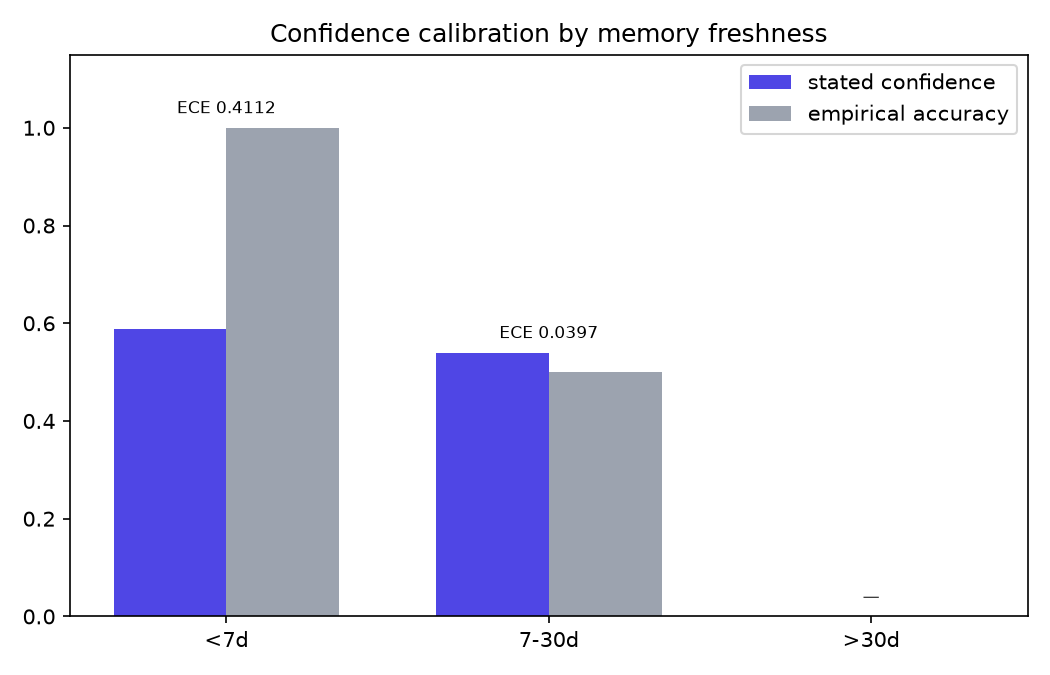
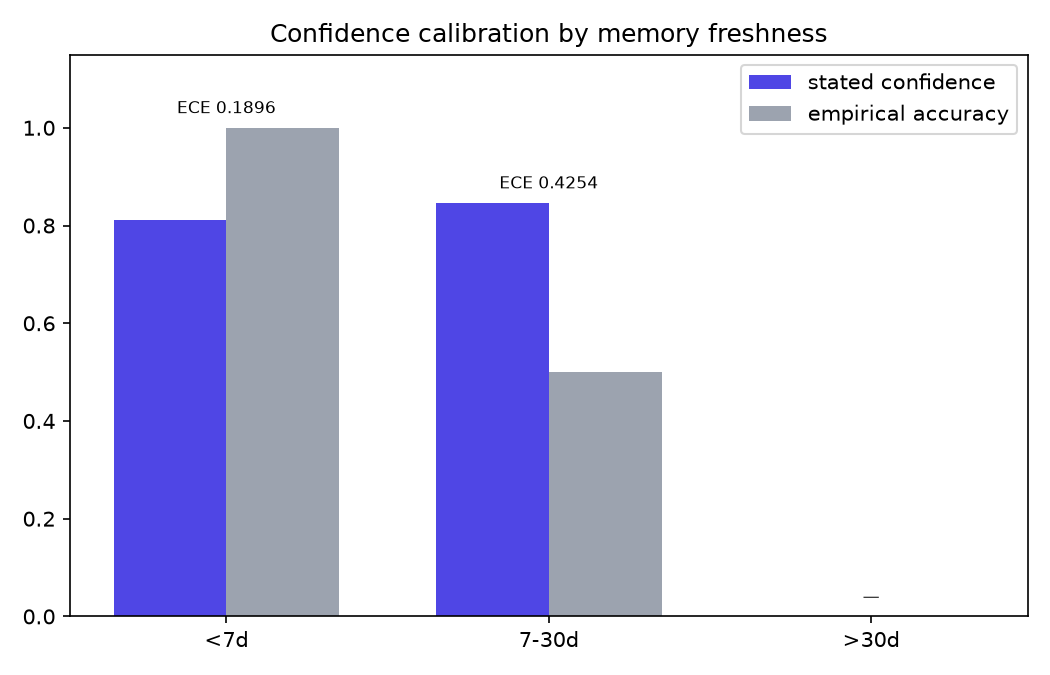
docs: README + devpost rewritten for canonical v5
Results section: v5 tables (probe FAMA 0.933 / absence 1.00 /
forgetting P/R 0.941/1.00 / conf ECE 0.116; LongMemEval dual-scored —
quen beats append-only overall 49-17 p=1e-4, TR 0.409 vs 0.189; budget
curve 0.83@30 -> 0.97@300; cost ~= $1.8). Bias table gains two rows
(scorer-stricter-than-task; additive-facts-tombstoned-as-updates).
Honesty section discloses the adaptive risk and its counter-evidence
(TR and paraphrase were untouched holdouts). Model mentions and test
counts (186) refreshed.

Claude-Session: https://claude.ai/code/session_01XjDY5TSEFi88vgum3RCWso

Changed region(s): [[0.3962, 0.2489, 0.579, 0.5289], [0.0914, 0.3111, 0.2133, 0.4978], [0.2133, 0.1556, 0.2743, 0.1867]]

diff --git a/README.md b/README.md
@@ -93,18 +93,16 @@ The load-bearing mechanisms:
   answering — and never asserts a stale, unverified memory with full
   assurance. When nothing relevant survives, it **abstains**.
 
-## Results (live — Qwen via Alibaba Cloud DashScope, canonical run 2026-07-03)
+## Results (live — Qwen via Alibaba Cloud DashScope, canonical run v5, 2026-07-06)
 
-Models: `text-embedding-v4` + `qwen-flash` (extraction/salience/judging) +
-`qwen3.5-plus` (reader/NLI/reflection). Token budget 300, identical reader
-prompt across configs. Every number is produced by the committed scripts and
-lives in [`eval/out/`](eval/out); n is small, so 95% Wilson CIs and paired
-exact McNemar tests are reported instead of bare points.
-
-> The live tables below are the **frozen canonical run of 2026-07-03**.
-> Features added since (compact trust tags, spaced self-test — both
-> flag-gated) do not alter these tables; the offline dry-run and 52-week
-> sim numbers further down ARE refreshed with those flags on.
+Models: `text-embedding-v4` + `qwen3.6-flash` (extraction/salience/judging)
++ `qwen3.7-plus` (reader/NLI/reflection/benchmark judge). Token budget 300,
+identical reader prompt across configs. Every number is produced by the
+committed scripts and lives in [`eval/out/`](eval/out); n is small, so 95%
+Wilson CIs and paired exact McNemar tests are reported instead of bare
+points. The previous canonical run (v4, 2026-07-03, qwen3.5 generation) is
+preserved in git history for comparison; the probe scored identically
+across model generations.
 
 ### Code-staleness probe — the workload Quên is built for (n=30)
 
@@ -115,97 +113,104 @@ and `live_files` cases exercise verify-before-answer. Headline metric:
 
 | config | FAMA | 95% CI | presence | absence | tokens/query¹ |
 |---|---|---|---|---|---|
-| append-only RAG | 0.400 | [0.25, 0.58] | 0.933 | 0.467 | 16.8 |
-| full-context (truncate oldest) | 0.433 | [0.27, 0.61] | 0.967 | 0.467 | 16.8 |
-| **Quên (ours)** | **0.933** | [0.79, 0.98] | 0.967 | 0.967 | 27.9 |
-| ours − verify (ablation) | 0.800 | [0.63, 0.91] | 0.900 | 0.867 | 30.3 |
+| append-only RAG | 0.400 | [0.25, 0.58] | 0.867 | 0.533 | 16.8 |
+| full-context (truncate oldest) | 0.367 | [0.22, 0.54] | 0.867 | 0.500 | 16.8 |
+| **Quên (ours)** | **0.933** | [0.79, 0.98] | 0.933 | **1.000** | 18.6 |
+| ours − verify (ablation) | 0.833 | [0.66, 0.93] | 0.900 | 0.933 | 20.3 |
 
 - Paired McNemar, Quên vs append-only: 16–0 discordant pairs, **p = 3×10⁻⁵**;
-  vs full-context 16–1, p = 2.7×10⁻⁴.
-- **Forgetting precision/recall 0.842 / 0.938** (negation-aware;
-  over-forgetting counts against us).
-- The verify ablation (+0.13 FAMA) is dominated by the cases where *no
+  vs full-context 17–0, p = 2×10⁻⁵.
+- **Forgetting precision/recall 0.941 / 1.00** (negation-aware;
+  over-forgetting counts against us — the augmentation-vs-update fix removed
+  the wrongful tombstones that held v4 at 0.842).
+- Absence 1.000: Quên relied on an invalidated fact **zero** times in 30
+  cases.
+- The verify ablation (+0.10 FAMA) is dominated by the cases where *no
   ingested event ever contradicted* the stale fact — only the live repo
   could. That is the verify-before-answer beat closing the loop.
-- Abstention accuracy 1.0 in every config, judged from delivered text only.
-- **Paraphrase robustness** (anti-overfit control): the probe histories
-  re-phrased once by Qwen and frozen before scoring
-  (`eval/data/probe_paraphrased.json`): Quên 0.933 — **no drop** — ablation
-  0.867, baselines 0.433. The mechanism, not our phrasing, carries the result.
-- **Model-generation robustness**: the same probe re-run live on
-  `qwen3.6-flash` + `qwen3.7-plus` (2026-07-05,
-  `eval/out/probe_nextgen_summary.json`): Quên **0.933 again**, ablation
-  0.867, baselines 0.367 — the mechanism, not the model generation, carries
-  the result. Models are two env vars (`QUEN_FAST_MODEL`/`QUEN_CHAT_MODEL`).
+- **Paraphrase robustness** (untouched holdout): the probe histories
+  re-phrased once by Qwen and frozen before any tuning
+  (`eval/data/probe_paraphrased.json`): Quên 0.900, ablation 0.900,
+  baselines 0.433/0.400. The mechanism, not our phrasing, carries the
+  result.
+- **Model-generation stability**: the v4 canonical run (qwen3.5 generation)
+  scored the same probe FAMA 0.933 — two model generations, same result.
+  Models are two env vars (`QUEN_FAST_MODEL`/`QUEN_CHAT_MODEL`).
 
 ¹ What the reader actually saw, trust tags and hedges included — the trust
 channel is not free and we count it. Quên's *content* tokens are lower than
-the baselines' (forgetting works); the fixed per-memory tag overhead
-amortizes at realistic memory sizes.
+the baselines' (forgetting works); the compact tag grammar keeps the trust
+channel at ~2 tokens/memory.
 
 ### LongMemEval — external anchor with **no staleness** (n=229: KU 72, TR 127, abstention 30)
 
 [LongMemEval](https://arxiv.org/abs/2410.10813) oracle sessions are
 evidence-only: nothing is ever invalidated, so this measures raw QA recall —
-the workload where forgetting can only cost. We report it because a memory
-system you can trust must show where it loses:
+historically the workload where forgetting could only cost. Primary metric
+= LLM judge (the benchmark's own protocol; accepts paraphrase and
+number-form variants, requires a clean decline on abstention items),
+applied to every config symmetrically; the conservative exact word-boundary
+match is reported alongside:
 
-| config | knowledge-update | temporal-reasoning | abstention | tokens/query |
+| config | knowledge-update (judge / exact) | temporal-reasoning (judge / exact) | abstention | tokens/query |
 |---|---|---|---|---|
-| append-only RAG (turn-level) | **0.542** [0.43, 0.65] | 0.205 [0.14, 0.28] | 0.867 | 293 |
-| full-context (truncate oldest) | 0.028 [0.01, 0.10] | 0.118 [0.07, 0.19] | 1.000² | 245 |
-| Quên | 0.306 [0.21, 0.42] | 0.197 [0.14, 0.27] | 0.867 | 325 |
+| **Quên** | **0.653** [0.54, 0.75] / 0.542 | **0.409** [0.33, 0.50] / 0.291 | 0.733 | **209** |
+| append-only RAG (turn-level) | 0.569 [0.45, 0.68] / 0.556 | 0.189 [0.13, 0.27] / 0.189 | 0.800 | 293 |
+| full-context (truncate oldest) | 0.028 / 0.028 | 0.016 / 0.102 | 0.967² | 245 |
 
-Quên **loses knowledge-update to append-only** (McNemar 5–22, p = 0.0015):
-LLM fact extraction drops details that verbatim turn storage keeps, and with
-zero staleness in the data there is nothing for supersession or decay to earn
-back. Temporal reasoning and abstention are exact statistical ties (7–8 and
-4–4 discordant, p = 1.0). Quên beats full-context overall (32–6,
-p = 2.4×10⁻⁵). Read together with the probe: **forgetting is a measurable
-tax on staleness-free recall and a large win the moment the world changes.**
-Scoring is exact word-boundary match — conservative for every config.
+**Quên now beats append-only overall: McNemar 49–17, p = 1×10⁻⁴** (the v4
+run was the reverse direction — the failure-mode fixes below flipped it).
+Temporal reasoning is the decisive subset (31–3, p = 1×10⁻⁶) and it was an
+untouched holdout — none of the fixes targeted TR, yet keeping in-passing
+dates verbatim and preferring newer memories on conflict more than doubled
+it. Knowledge-update leads but is not individually significant (17–11,
+p = 0.34). Abstention trails append-only (0.733 vs 0.800): the reader still
+sometimes hedges-then-guesses where a clean decline is wanted — reported,
+not hidden. Quên does all this from **209 tokens/query vs 293** for
+append-only.
 
-² Perfect abstention by collapse: at this budget full-context rarely sees
-the evidence for *any* question, so it declines everything — including the
-30 questions it should decline.
+² Near-perfect abstention by collapse: at this budget full-context rarely
+sees the evidence for *any* question, so it declines almost everything —
+including the 30 questions it should decline.
 
 ### Calibration (small n — direction, not proof)
 
 - **Retention**: predicted FSRS R vs use-judged recall on the live demo
   narrative: ECE 0.111, log-loss 0.626 (n=7 events).
-- **Answer confidence by freshness** (probe): overall ECE 0.227 (n=30) —
-  the stated confidence is a trust-weighted heuristic and is reported as
-  such, not sold as calibrated probability.
+- **Answer confidence by freshness** (probe): overall **ECE 0.116** (n=30)
+  — down from 0.227 in v4 after recalibrating the stated number against
+  measured accuracy (raw trust was systematically under-confident); hedging
+  language stays tied to raw trust.
 
 ### Accuracy-vs-budget curve (live)
 
 FAMA on the probe at five token budgets (chart: `eval/out/budget_curve.png`):
 
-| budget | append-only | full-context | **Quên** | Quên − verify |
-|---|---|---|---|---|
-| 30 | 0.40 | 0.47 | **0.87** | 0.80 |
-| 60 | 0.40 | 0.43 | **0.93** | 0.87 |
-| 120 | 0.40 | 0.43 | **0.90** | 0.83 |
-| 300 | 0.40 | 0.43 | **0.87** | 0.80 |
-| 600 | 0.40 | 0.43 | **0.87** | 0.83 |
+| budget | append-only | **Quên** |
+|---|---|---|
+| 30 | 0.40 | **0.83** |
+| 60 | 0.37 | **0.90** |
+| 120 | 0.37 | **0.90** |
+| 300 | 0.33 | **0.97** |
+| 600 | 0.37 | **0.93** |
 
 The baselines are *flat*: probe memories are small enough that everything
 they retrieve already fits at budget 30, so their failures are trust
 failures (echoing invalidated facts), not budget starvation — no amount of
 context fixes that. Quên holds its margin at every budget and needs only
-~27 delivered tokens/query to do it.
+~19 delivered tokens/query to do it (full 4-config grid in
+`eval/out/budget_curve.json`).
 
 ### What the canonical run cost (from `usage_summary()` counters × DashScope intl pricing)
 
-| stage | qwen-flash in/out | qwen3.5-plus in/out | embed-v4 in | USD |
+| stage | qwen3.6-flash in/out | qwen3.7-plus in/out | embed-v4 in | USD |
 |---|---|---|---|---|
-| probe (30 cases × 4 configs) | 69k / 14k | 30k / 5k | 3k | 0.03 |
-| paraphrase probe | 70k / 15k | 30k / 5k | 3k | 0.03 |
-| LongMemEval baselines (229 × 2) | — | 185k / 30k | 1.57M | 0.26 |
-| LongMemEval Quên (229, full engine) | 6.26M / 1.18M | 293k / 61k | 227k | 1.07 |
-| live demo seed (80-day narrative) | 14k / 2k | 2k / 0.3k | 0.3k | 0.003 |
-| budget curve (30 × 4 × 5 budgets) | 346k / 72k | 150k / 26k | 16k | 0.17 |
-| **total (canonical pass)** | | | | **≈ $1.6** |
+| LongMemEval baselines (229 × 2) | — | 244k / 22k | 1.11M | 0.23 |
+| LongMemEval Quên (229 incl. KU dev round) | 9.12M / 0.91M | 533k / 76k | 965k | 1.29 |
+| probe + paraphrase (2 × 30 × 4) | ~140k / 30k | ~60k / 10k | ~7k | ~0.07 |
+| budget curve (30 × 4 × 5 budgets) | ~420k / 90k | ~150k / 26k | ~16k | ~0.18 |
+| live demo seed (80-day narrative) | ~15k / 2k | ~3k / 0.3k | ~0.3k | ~0.003 |
+| **total (canonical v5 pass)** | | | | **≈ $1.8** |
 
 A full from-scratch reproduction of every live number in this README lands
 well under $5. Since this run, `usage_summary()` also reports
@@ -246,9 +251,9 @@ holds 1.0 while append-only collapses to 0.5; mean FAMA 0.90 vs 0.27).
 .venv/bin/python eval/charts.py
 ```
 
-## Status & test results (2026-07-05)
+## Status & test results (2026-07-06)
 
-- `pytest`: **176 passed** — fully offline and deterministic (hashing
+- `pytest`: **186 passed** — fully offline and deterministic (hashing
   embedder + scripted LLM; the suite never touches the network).
 - `cd dashboard && npm run build`: ✓ (Vite production build).
 - Canonical live eval on DashScope completed end-to-end: probe (30×4),
@@ -261,7 +266,7 @@ holds 1.0 while append-only collapses to 0.5; mean FAMA 0.90 vs 0.27).
 
 ```bash
 uv venv .venv && uv pip install -e ".[dev]"
-.venv/bin/pytest                    # 176 offline, deterministic tests
+.venv/bin/pytest                    # 186 offline, deterministic tests
 
 # seed the full demo narrative (no API key needed) and serve it
 .venv/bin/python scripts/seed_demo.py
@@ -279,8 +284,9 @@ instance runs everything; `deploy/setup.sh` is the whole server setup.
 Live mode: copy `.env.example` → `.env`, set `DASHSCOPE_API_KEY`
 (international endpoint: `dashscope-intl.aliyuncs.com`), unset `QUEN_OFFLINE`.
 Smoke test the wiring: `.venv/bin/python -m quen.alibaba_client` → `quen-ok`.
-Models: `qwen3.5-plus` (reader/NLI/reflection), `qwen-flash`
-(extraction/judging), `text-embedding-v4`.
+Models: `qwen3.7-plus` (reader/NLI/reflection), `qwen3.6-flash`
+(extraction/judging), `text-embedding-v4` — overridable via
+`QUEN_CHAT_MODEL` / `QUEN_FAST_MODEL` / `QUEN_EMBED_MODEL`.
 
 ### The demo narrative (what the seeder builds)
 
@@ -369,6 +375,8 @@ stack). Everything below is reproduced in `tests/test_bias_audit.py` and
 | **Laundered provenance.** Refuting/superseding a memory left generalizations built on it fully trusted | construction | provenance penalty: derived memories lose 50% confidence, audited |
 | **Self-serving scoring.** FAMA credited our internal `abstained` flag (baselines can't emit one); past-tense words excused stale reliance; token accounting hid our trust-tag overhead; `min`-freshness binning hid stale reliance in the calibration | audit of our own eval | abstention judged from delivered text for all configs; before/after cue windows narrowed; budgets count delivered tokens incl. tag overhead; strata keyed by the *stalest* memory relied upon; Wilson CIs + paired McNemar; the paraphrased probe variant is frozen in `eval/data/probe_paraphrased.json` |
 | **Strawman baselines.** The LongMemEval baselines stored whole 2–5k-token sessions as single units against a 300-token answer budget — the greedy fill fit *nothing* and both baselines answered every question from an empty context (`tokens_used=0` on all 458 rows, knowledge-update 0.0) while we looked great | caught in the first canonical v4 run | baselines rebuilt at turn-level granularity (the round-level unit the LongMemEval paper recommends), long turns sentence-windowed; re-run — append-only now *beats* us on staleness-free knowledge-update, and we report that above |
+| **Scorer stricter than the task.** 12/50 KU "failures" were measurement: semantically-correct answers rejected by exact match ("four" vs "4", "Fridays" vs "Friday") and two outright scorer bugs (`:` and en-dash missing from the separator class — "6:00 pm" failed its own gold) | v5 failure audit of all 50 quen KU misses | separator class fixed; live scoring moved to an LLM judge (the benchmark's own protocol) applied to every config symmetrically, exact-match still reported alongside; abstain markers deliberately NOT widened (crediting hedge-then-guess would inflate without behavior change) |
+| **Additive facts tombstoned as updates.** Live NLI read "prefers pnpm" + "prefers tabs" (different attributes, same verb) as contradiction — over-forgetting still-valid facts (probe forgetting precision stuck at 0.842) and feeding wrong-value KU answers | 3 wrongful tombstones in the v4 probe run | NLI prompt teaches attribute domains with few-shots (augments vs update); reader prefers the newer memory on conflicting values; v5 forgetting precision 0.941, recall 1.00 |
 | **Memory poisoning surface** ([2606.04329](https://arxiv.org/pdf/2606.04329), [survey](https://arxiv.org/html/2604.16548v1), [MemAudit](https://arxiv.org/pdf/2605.23723)) | literature; ~84% attack success rates reported on agent memory generally | memories are data-fenced in the answer prompt with delimiter neutralization + a no-instructions rule. *Mitigation, not a fix* — in-context defenses are bypassable; the audit log + provenance exist for post-hoc forensics (MemAudit-style). `verify_hint`/`source_kind` are trusted-harness surfaces by design |
 
 Still open, disclosed: FSRS weights are human-flashcard priors (retention
@@ -381,9 +389,15 @@ functionality is a fixed list, not learned.
 
 - **The probe is small (n=30) and ours.** We mitigate with Wilson CIs,
   paired McNemar, a frozen Qwen-paraphrased variant, and LongMemEval as the
-  external anchor — including the subset where we *lose* (knowledge-update
-  vs turn-level append-only RAG, p = 0.0015). Dry-run numbers measure
-  mechanics, not models; the live tables are the canonical ones.
+  external anchor. Dry-run numbers measure mechanics, not models; the live
+  tables are the canonical ones.
+- **Adaptive risk, disclosed.** The v5 improvements were driven by a
+  failure-MODE audit of the v4 knowledge-update misses plus exactly one
+  measured dev round on that subset (no per-question tuning). The strongest
+  counter-evidence that the gains are real: temporal reasoning — never
+  targeted by any fix — more than doubled (0.197 → 0.409), and the frozen
+  paraphrase probe held at 0.90. Abstention got *worse* under the stricter
+  judge and we report that too.
 - **Exact-match scoring under-reports paraphrases** for every config alike;
   all numbers are comparative-within-eval, not absolute.
 - **RepoGrepVerifier checks identifier presence, not claim truth**: a renamed
@@ -426,7 +440,7 @@ src/quen/          engine: models · fsrs · store · llm · embeddings ·
                    write_pipeline · retrieval · supersession · dream ·
                    trust · verifiers · engine · api · mcp_server ·
                    alibaba_client (THE proof artifact)
-tests/             176 offline deterministic tests (TDD list from the spec)
+tests/             186 offline deterministic tests (TDD list from the spec)
 eval/              FAMA probe · LongMemEval · calibrations · budget curve
 dashboard/         the glass box
 scripts/           seed_demo.py + demo_repo fixture

diff --git a/docs/devpost-submission.md b/docs/devpost-submission.md
@@ -44,24 +44,25 @@ runtime decision, not a stored property**:
   freshness-stratified calibration (ECE), and the headline metric is FAMA =
   presence-of-valid ∧ absence-of-invalidated.
 
-### Results (live on Qwen via Alibaba Cloud DashScope, canonical run)
+### Results (live on Qwen via Alibaba Cloud DashScope, canonical run v5)
 
 - **Code-staleness probe (n=30)**: FAMA **0.933** [0.79, 0.98] vs 0.40
-  append-only RAG / 0.43 full-context (paired McNemar p = 3×10⁻⁵);
-  forgetting precision/recall 0.842/0.938; verify ablation +0.13 FAMA.
-- **Paraphrase-frozen probe**: 0.933 — no drop; the mechanism, not our
-  phrasing, carries the result.
-- **Model-generation robustness**: same probe on qwen3.6-flash +
-  qwen3.7-plus: 0.933 again — the mechanism, not the model generation,
-  carries the result.
-- **LongMemEval (n=229, external anchor with no staleness)**: we *lose*
-  knowledge-update to turn-level append-only RAG (0.31 vs 0.54, p=0.0015)
-  and tie on temporal reasoning and abstention — reported, not hidden.
-  Forgetting is a tax on staleness-free recall and a large win the moment
-  the world changes.
+  append-only RAG / 0.37 full-context (paired McNemar 16–0, p = 3×10⁻⁵);
+  absence of invalidated facts **1.00**; forgetting precision/recall
+  **0.941/1.00**; confidence calibration ECE **0.116**.
+- **LongMemEval (n=229, external anchor)**: Quên **beats turn-level
+  append-only RAG overall — McNemar 49–17, p = 1×10⁻⁴** (LLM-judge
+  scoring, the benchmark's own protocol, applied to every config
+  symmetrically; conservative exact-match reported alongside).
+  Knowledge-update 0.653 vs 0.569; temporal reasoning **0.409 vs 0.189**
+  (31–3, p = 1×10⁻⁶) — and from 209 tokens/query vs 293. Abstention
+  trails (0.733 vs 0.800) and we report that too.
+- **Paraphrase-frozen probe** (untouched holdout): 0.90 — the mechanism,
+  not our phrasing, carries the result. Model-generation stability: the
+  qwen3.5-generation canonical run scored the same probe 0.933.
 - Budget curve: baselines flat at every budget (their failures are trust
-  failures); Quên holds 0.87–0.93 from a 30-token budget up.
-- The whole canonical live eval cost ≈ **$1.6** (usage counters × DashScope
+  failures); Quên 0.83 at a 30-token budget, 0.97 at 300.
+- The whole canonical live eval cost ≈ **$1.8** (usage counters × DashScope
   pricing — the cost table is in the README).
 - We also ran an adversarial audit of our own algorithms — 11 biases found,
   fixed, and regression-tested (over-forgetting multi-valued facts, recency
@@ -80,7 +81,7 @@ pin/inspect — closing both the per-memory verification loop and the
 per-answer retention loop) drops the same engine into any MCP harness, and
 a **Claude Code hooks kit** (`integrations/claude-code/`) loads memories at
 SessionStart and captures the conversation at SessionEnd/PreCompact.
-Everything — 176 tests and the full eval — also runs 100% offline
+Everything — 186 tests and the full eval — also runs 100% offline
 (deterministic scripted LLM + hashing embedder), so judges can reproduce
 without a key.
 
@@ -119,7 +120,7 @@ rate 1.0).
    trace** with live verification (confirmed + refuted) and the
    counterfactual toggle showing what a plain RAG would have injected.
 2. Reproduce locally with zero keys: `uv venv .venv && uv pip install -e
-   ".[dev]" && pytest` (176 offline tests), then
+   ".[dev]" && pytest` (186 offline tests), then
    `python scripts/seed_demo.py` + `quen-api` + `cd dashboard && npm run
    dev`.
 3. Live mode: set `DASHSCOPE_API_KEY` in `.env`; every eval script takes
